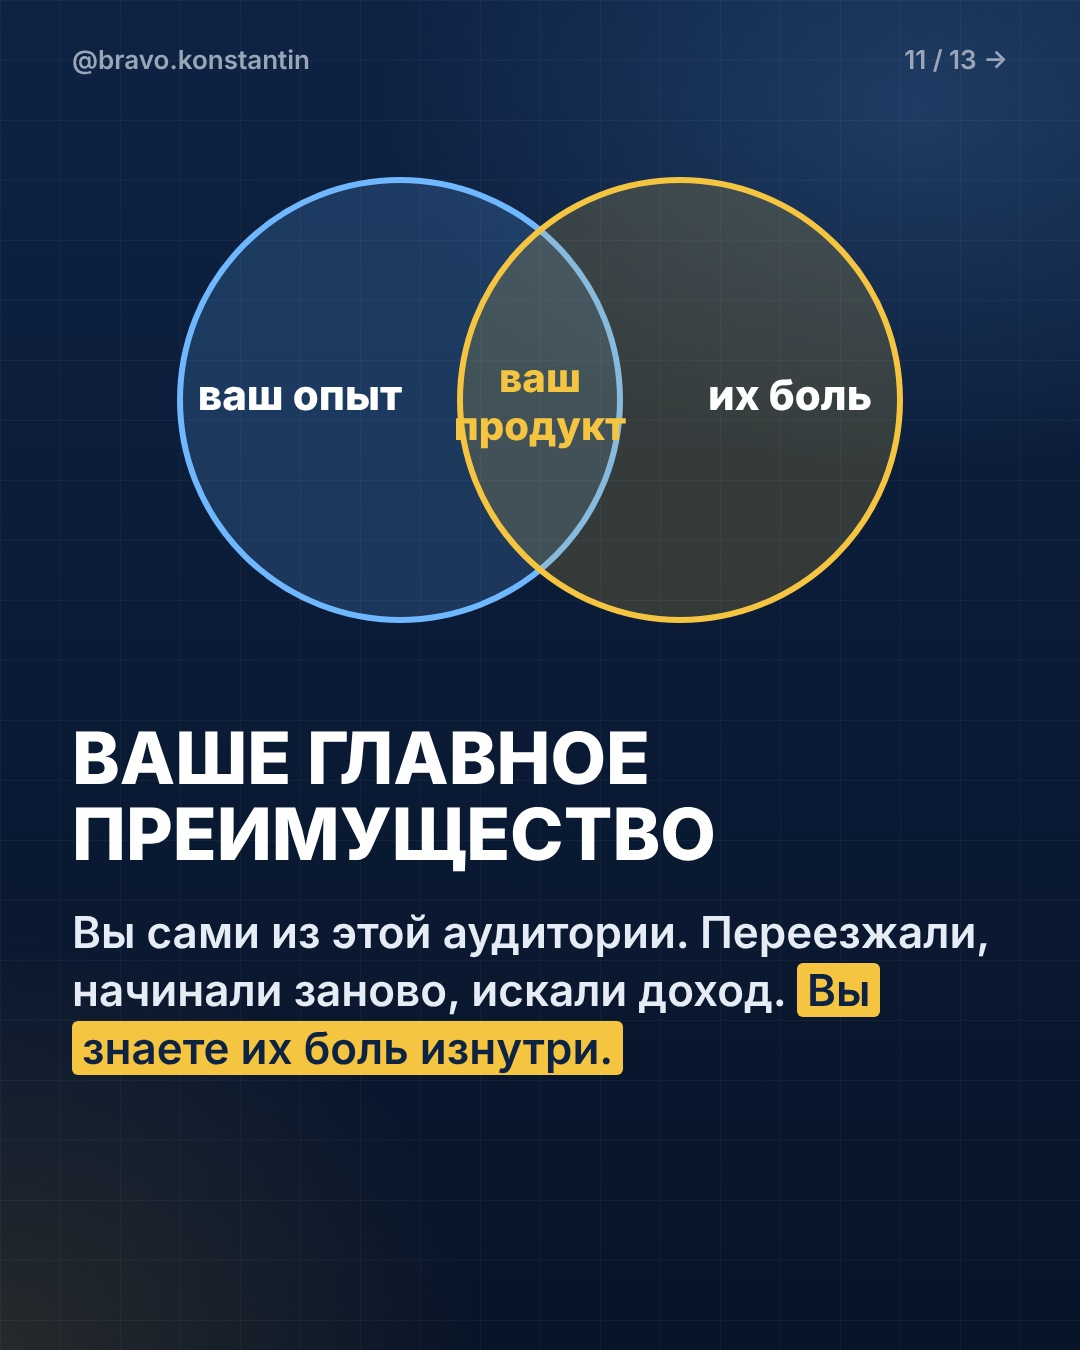
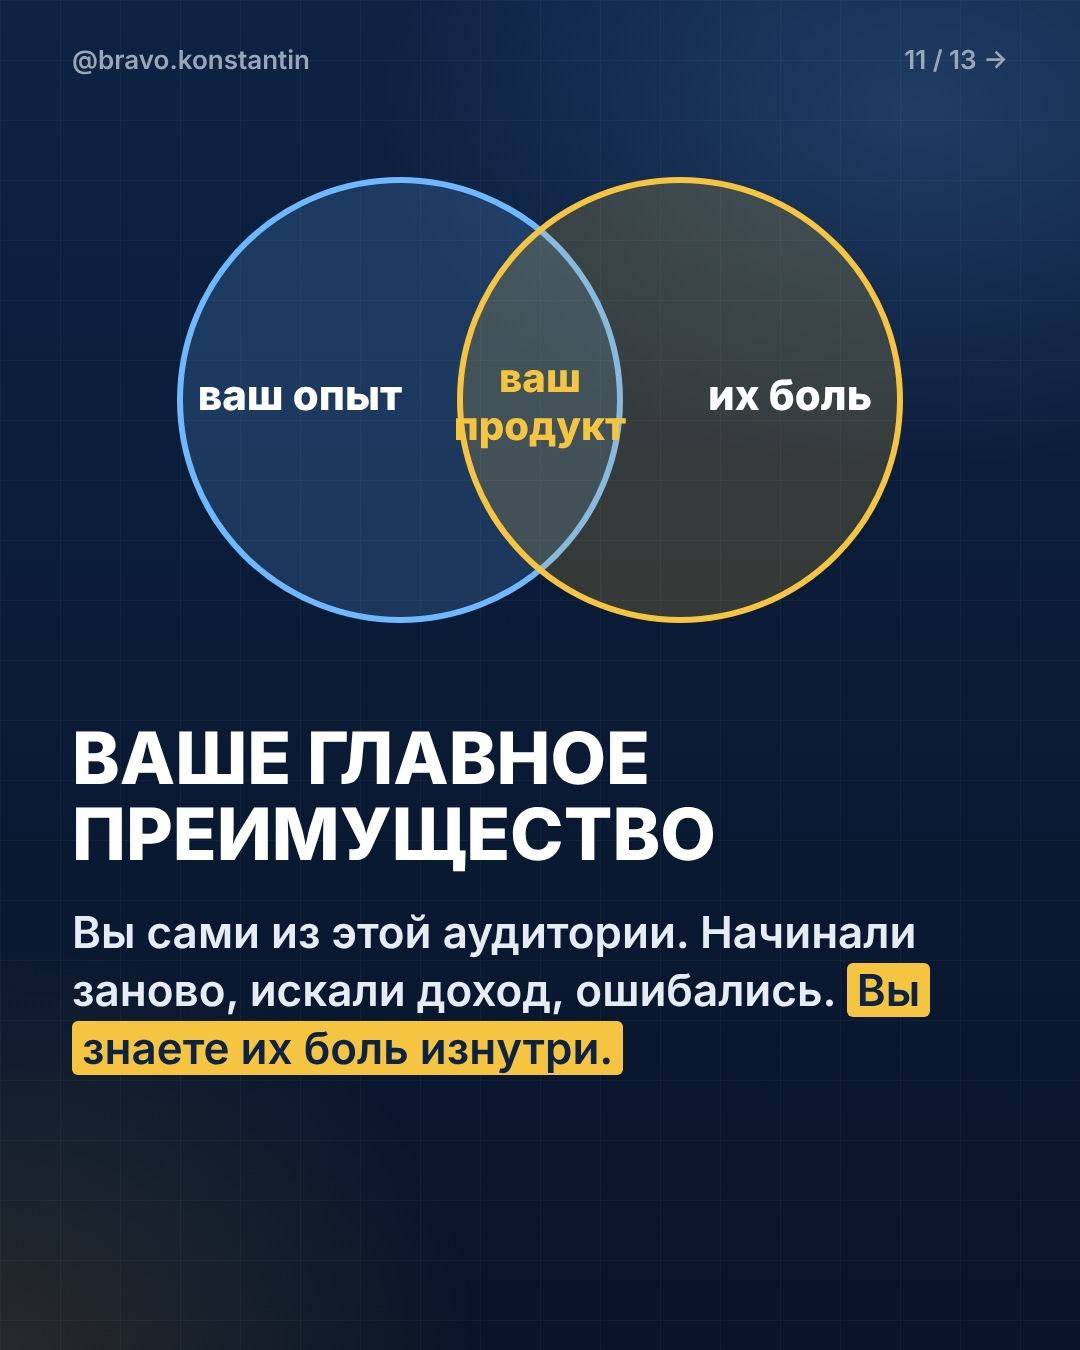
Листок и пирожки: убрана общая география по правилам 17.11
Claude-Session: https://claude.ai/code/session_01Q63LAQASQZAPGiGBoPTq7m

Changed region(s): [[0.0611, 0.6844, 0.9167, 0.7778]]

diff --git a/tools/make_pirozhki_opyt.py b/tools/make_pirozhki_opyt.py
@@ -79,7 +79,7 @@ ill = f'''<svg width="1080" height="600" style="position:absolute;top:110px;left
 <text x="790" y="300" text-anchor="middle" font-family="S" font-weight="800" font-size="42" fill="#fff">их боль</text>
 <text x="540" y="282" text-anchor="middle" font-family="S" font-weight="800" font-size="40" fill="{Y}">ваш</text>
 <text x="540" y="330" text-anchor="middle" font-family="S" font-weight="800" font-size="40" fill="{Y}">продукт</text></svg>'''
-sl[11] = txt(11, 'Ваше главное преимущество', 'Вы сами из этой аудитории. Переезжали, начинали заново, искали доход. <span class="y">Вы знаете их боль изнутри.</span>', ill, top=720)
+sl[11] = txt(11, 'Ваше главное преимущество', 'Вы сами из этой аудитории. Начинали заново, искали доход, ошибались. <span class="y">Вы знаете их боль изнутри.</span>', ill, top=720)
 
 sl[12] = personal2(12, 'Я начинал так же', 'С нуля, в 52 года, в новой стране.')
 
